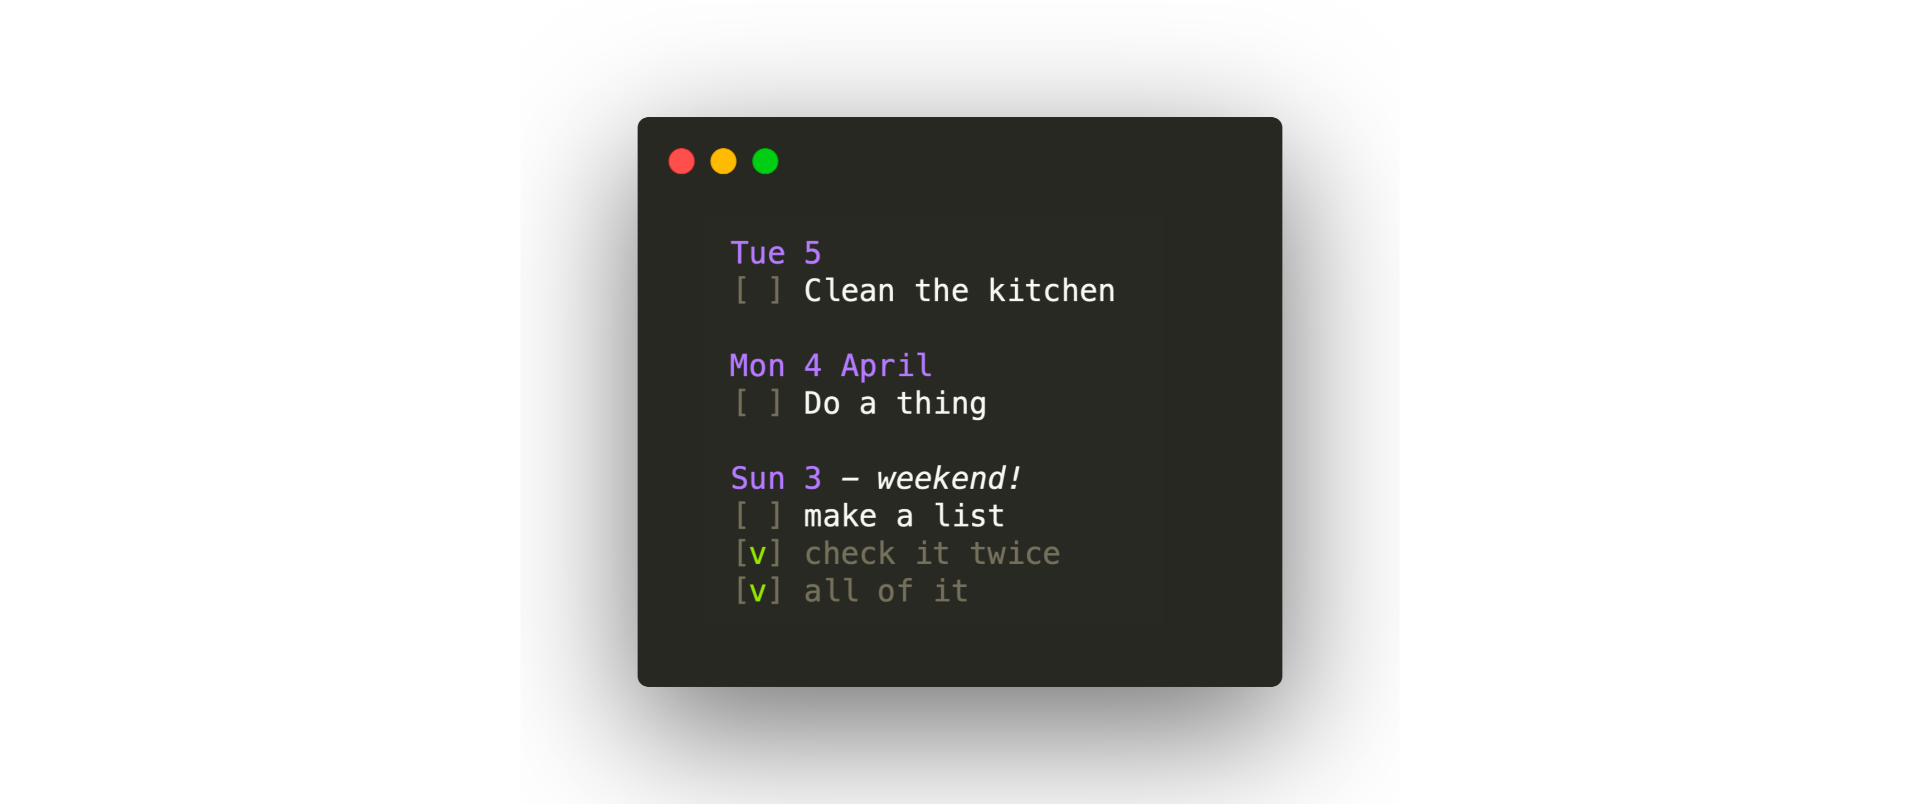
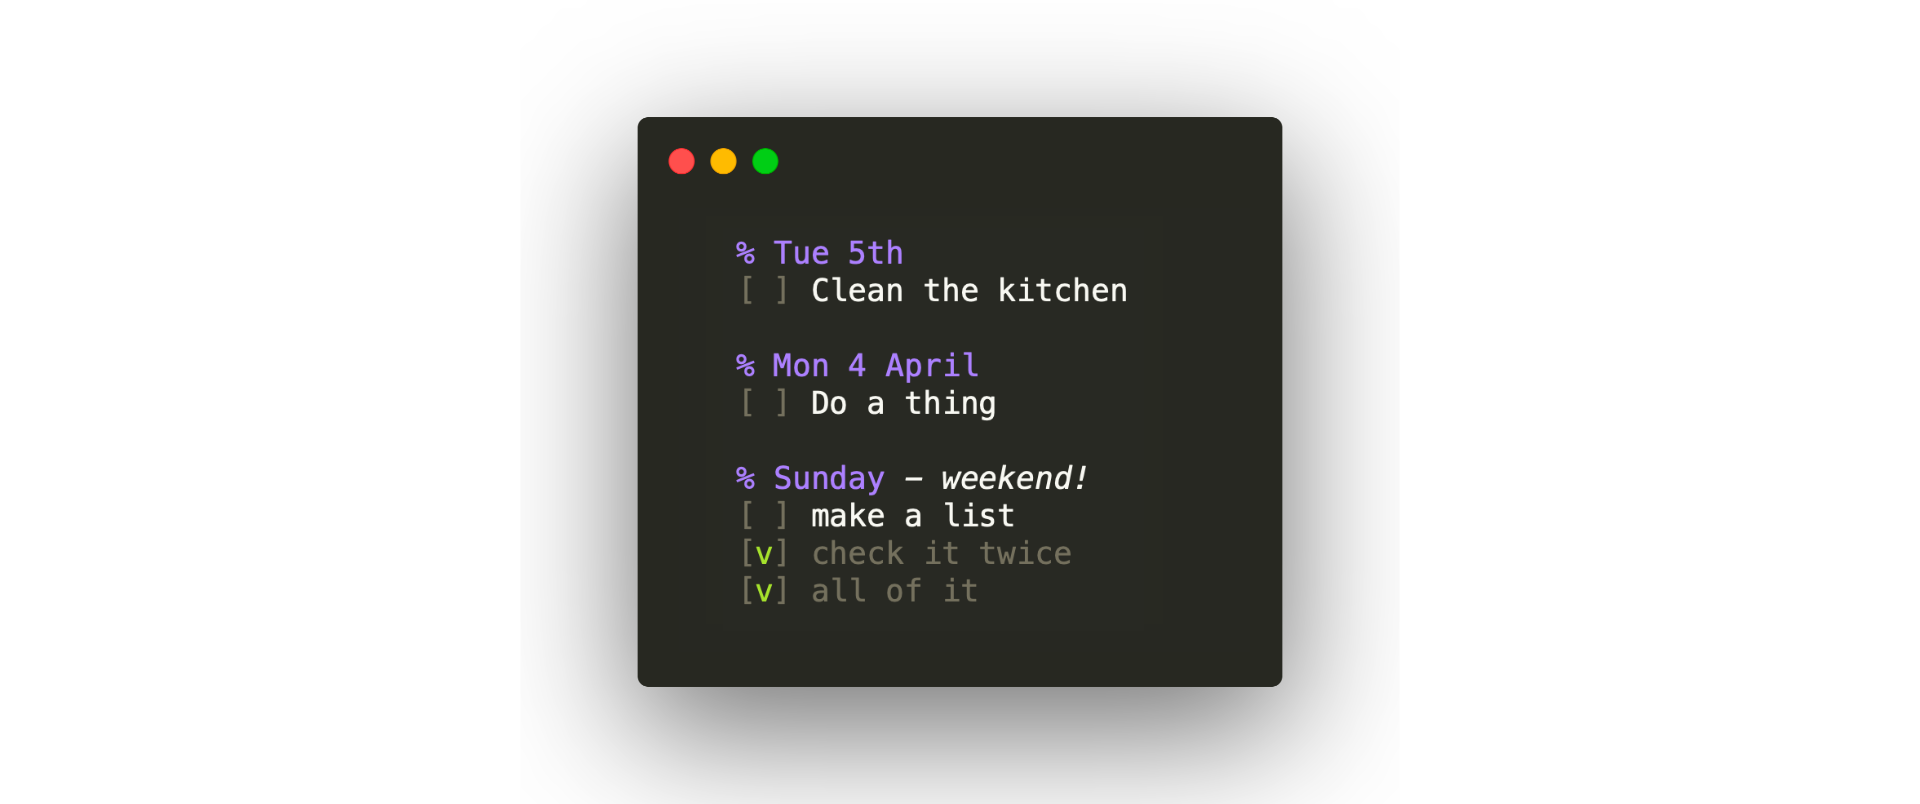
[mod] new international format for dates: %

Changed region(s): [[0.375, 0.5597, 0.5625, 0.7463], [0.375, 0.4353, 0.5312, 0.5286], [0.375, 0.2799, 0.5938, 0.3731]]

diff --git a/README.md b/README.md
@@ -20,7 +20,7 @@ log of everything you've done.
 Here's a short example:
 
 ```
-Wed 20 May
+% Wed 20 May
 [ ] do this task today
 [v] this task is done
 [ ] this is an open task with sub-tasks
@@ -131,6 +131,10 @@ time this Tuesday, that's when you schedule it. Here's an example workflow:
 
 ![Example of using dates](example_images/sample_date.png)
 
+The current implementation also highlights lines starting with 'Mon', 'Tue', 'Wed' etc.,
+but this behaviour is deprecated in favour of a more international approach.
+Date indicators now start with a `%`.
+
 
 #### Time
 
@@ -152,7 +156,7 @@ On Windows, to `C:\Users\{username}\AppData\Roaming\Sublime Text 3\Packages\User
 # License
 
 ```
-Copyright © 2020-2022 Mathijs Lagerberg
+Copyright © 2020-2025 Mathijs Lagerberg
 This work is free. You can redistribute it and/or modify it under the
 terms of the Do What The Fuck You Want To Public License, Version 2,
 as published by Sam Hocevar. See the COPYING file for more details.
